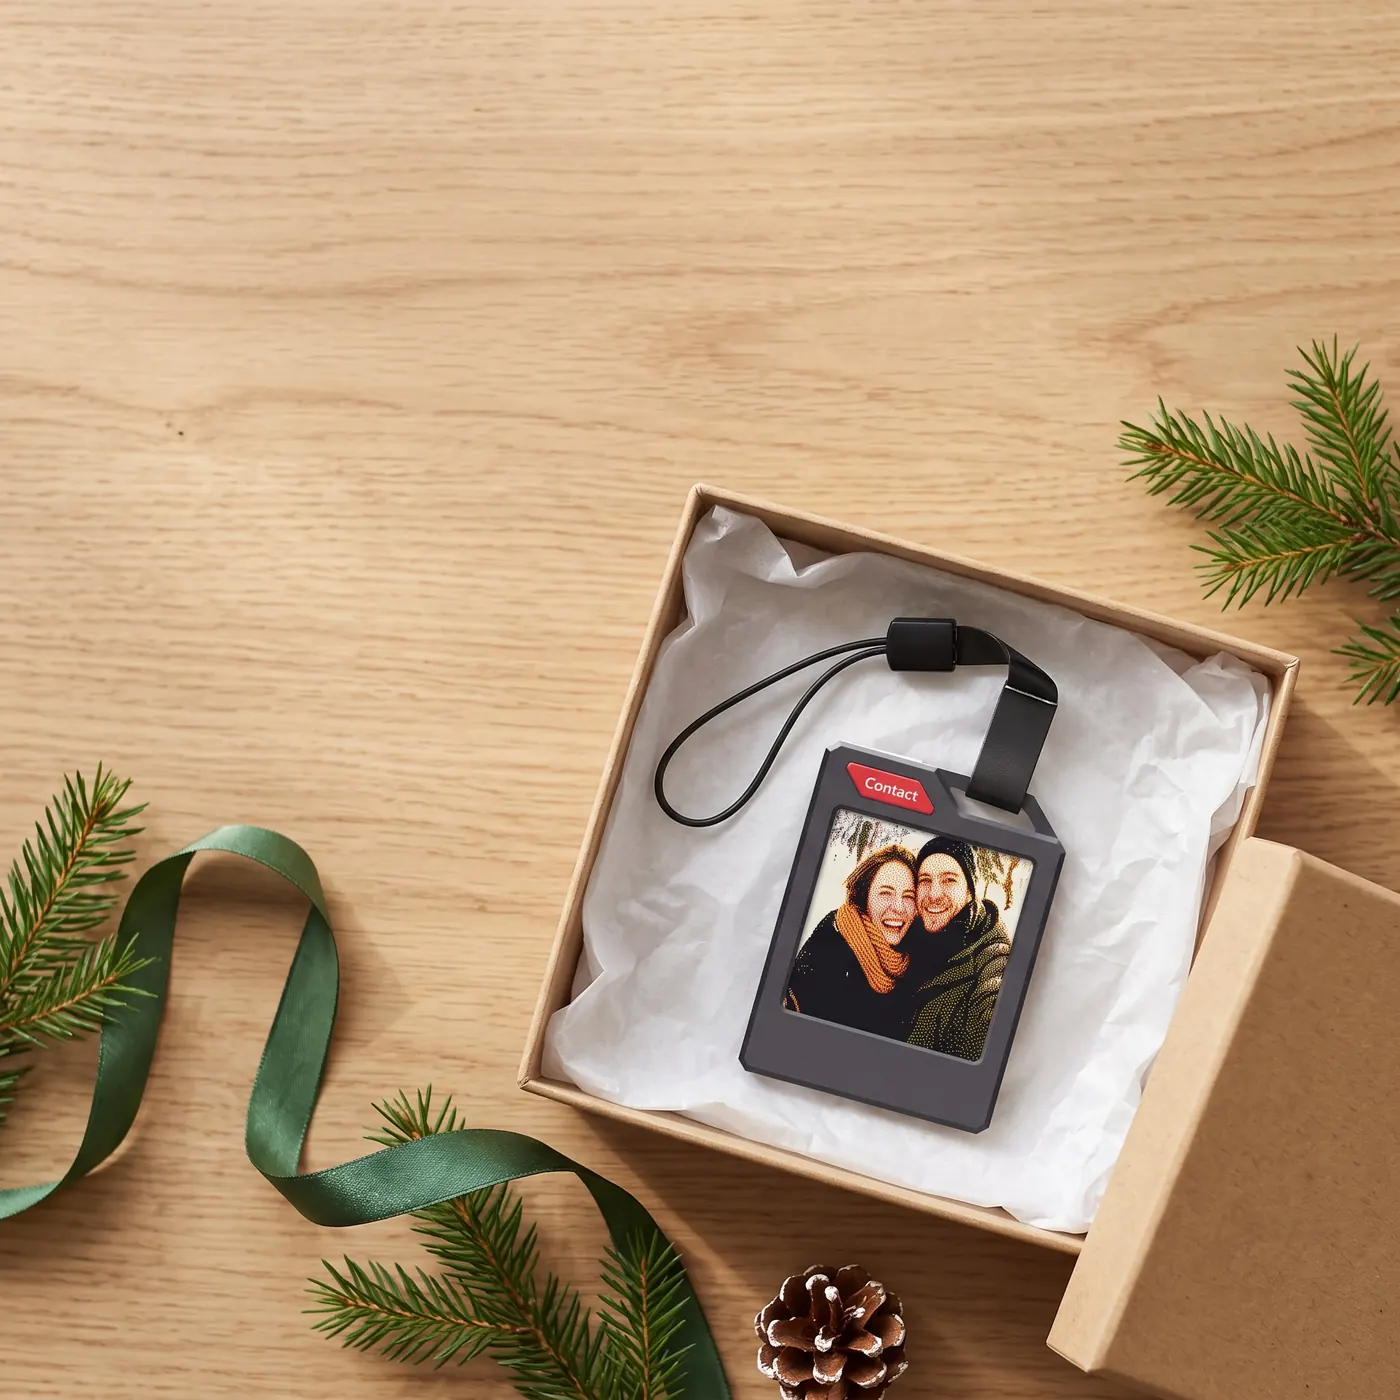
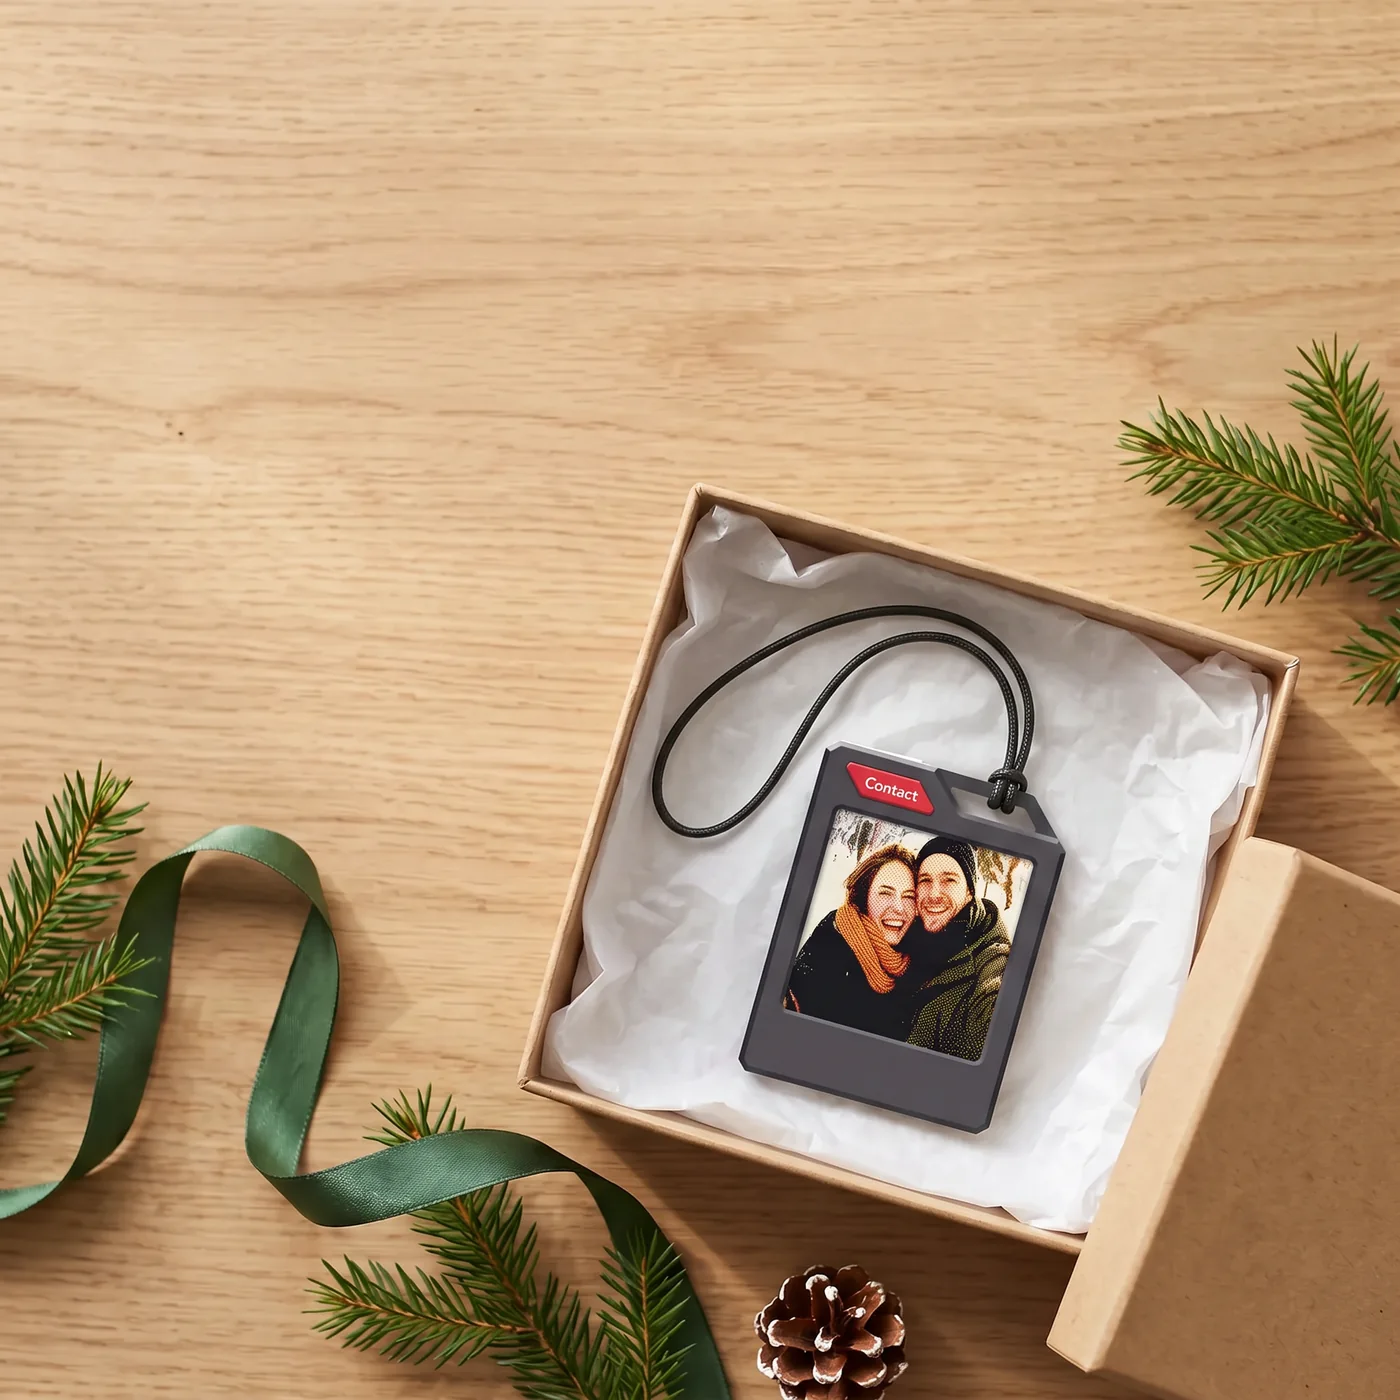
PhotoTag: Bilder auf echte Befestigung umgestellt (dünne Schnurschlaufe statt Band mit Schieber) – Koffer, Schlüssel, Rucksack, Geschenk, Einrichtungsbild; Schlaufe kürzer
Claude-Session: https://claude.ai/code/session_01SAyefAAVuB7YyiNaLmTKaS

diff --git a/phototag/index.html b/phototag/index.html
@@ -466,7 +466,7 @@ footer ul{list-style:none;margin:0;padding:0;display:grid;gap:6px}
         <li><div><b>Anhängen</b><span>Mit der Schlaufe an Schlüsselbund, Koffergriff oder Rucksack. Fertig.</span></div></li>
       </ol>
     </div>
-    <img class="cord" src="img/tag-cord-cat.webp" width="416" height="1500" alt="PhotoTag mit Schlaufe und Katzenfoto auf dem Display" loading="lazy">
+    <img class="cord" src="img/tag-cord-cat.webp" width="625" height="1200" alt="PhotoTag an einer dünnen Schnurschlaufe, Katzenfoto auf dem Display" loading="lazy">
   </div>
 </section>
 
